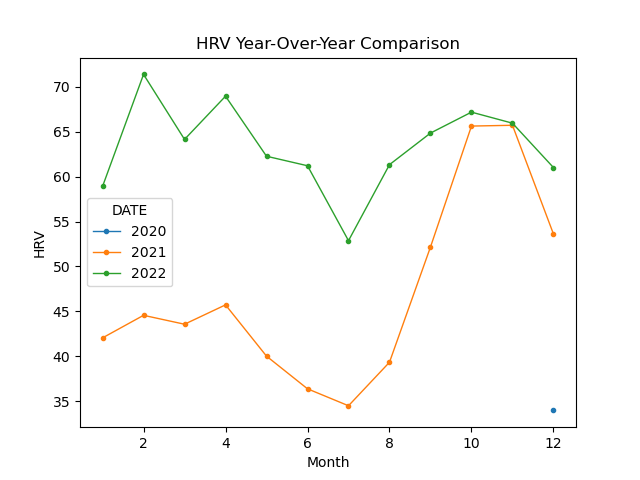
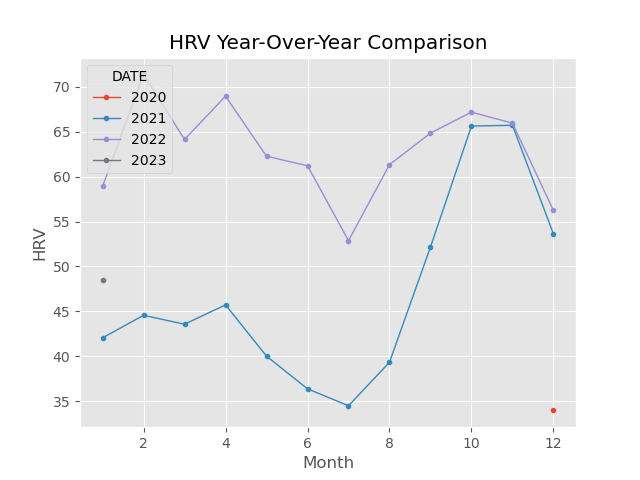
added knn classification

diff --git a/templates/weight.html b/templates/weight.html
@@ -4,7 +4,10 @@
 		<h3> <a href="/"class="button">HOME</a></h3>
 		<div class="parent">
 			<div>
-				<img src={{url_for('static',filename="Weight (pounds) Year-Over-Year Comparison.png")}} />
+				<img src={{url_for('static',filename="Mean Weight (pounds) Year-Over-Year Comparison.png")}} />
+			</div>
+			<div>
+				<img src={{url_for('static',filename="Mean Calories consumed Year-Over-Year Comparison.png")}} />
 			</div>
 		</div>
 		<h3> <a href="/"class="button">HOME</a></h3>

diff --git a/templates/index.html b/templates/index.html
@@ -6,4 +6,5 @@
 		<h3> <a href="/power"class="btn btn-primary btn-lg">Power</a></h3>
 		<h3> <a href="/recovery"class="btn btn-primary btn-lg">Recovery</a></h3>
 		<h3> <a href="/regression"class="btn btn-primary btn-lg">Regression</a></h3>
+		<h3> <a href="/scatter"class="btn btn-primary btn-lg">Scatter</a></h3>
 	{% endblock %}

diff --git a/templates/scatter.html b/templates/scatter.html
@@ -1,0 +1,12 @@
+{% extends 'base.html' %}
+	{% block body %}
+		<h1> Scatter Plot </h1>
+		<h3> <a href="/"class="button">HOME</a></h3>
+		<div class="parent">
+			<div>
+				<img src={{url_for('static',filename="scatter_matrix.png")}} />
+			</div>
+		</div>
+		<h3> <a href="/"class="button">HOME</a></h3>
+	{% endblock %}
+

diff --git a/templates/recovery.html b/templates/recovery.html
@@ -9,6 +9,9 @@
 			<div>
 				<img src={{url_for('static',filename="RHR Year-Over-Year Comparison.png")}} />
 			</div>
+			<div>
+				<img src={{url_for('static',filename="Mean Total Hours of Sleep Year-Over-Year Comparison.png")}} />
+			</div>
 		</div>
 		<h3> <a href="/"class="button">HOME</a></h3>
 	{% endblock %}

diff --git a/knn-classification.py b/knn-classification.py
@@ -1,0 +1,94 @@
+#!/usr/bin/python3
+
+import pandas as pd
+from pandas.plotting._misc import scatter_matrix
+import numpy as np
+import matplotlib.pyplot as plt
+from sklearn.neighbors import KNeighborsClassifier
+from sklearn.model_selection import train_test_split
+import load
+import data_manipulations
+from matplotlib.patches import Patch
+
+
+
+def main():
+	''' main function for testing'''
+	
+	filename = "trainingLog.csv"
+	df = load.to_df(filename)
+
+	variables = ['Run type', 'GARMIN Average HR (bpm)', 'Average Pace (min/mile)', 'Average Cadence (spm)', 'Average Power (W)']
+	
+
+	data = df[variables].dropna()
+	data = data_manipulations.convert_pace(data)
+
+	target_variable = 'Run type'
+	predictor_variables = ['GARMIN Average HR (bpm)', 'Pace (min per mile)', 'Average Cadence (spm)', 'Average Power (W)']
+
+	y = data[target_variable]
+
+	df = data[predictor_variables] 
+	
+	fig = plt.figure()
+	fig.set_figheight(12)
+	fig.set_figwidth(8)
+
+	ax1 = plt.subplot(1, 1, 1) #, frameon=True)
+
+	#fig, ax = plt.subplots()
+	plt.style.use('ggplot')
+
+	colors = {'Recovery':'red', 'Threshold':'orange', 'Medium long':'green', 'Long run':'blue', 'VO2 max':'yellow', 'General aerobic':'black', 'Progression':'cyan', 'Race':'magenta', 'Intervals':'0.8'}
+
+	color_map = data['Run type'].map(colors)
+
+	ax1 = scatter_matrix(df, c=color_map, figsize = [8,8], s=150, marker='D')
+
+	#ax2 = plt.subplot(2, 1, 2)
+
+	red = Patch(facecolor='red', edgecolor='r', label='Recovery')
+	#orange = mpatches.Patch(color='orange', label='Threshold')
+
+	#ax2.legend(handles=[red], loc='center')
+	#_ = ax.add_artist(legend)
+	
+	#plt.tight_layout()
+	plt.show()
+
+	plt.savefig("/home/ocros03/Website/static/scatter_matrix.png")
+	plt.close()
+	
+
+	#print(df)
+	#print(df.shape)
+	#print(df.keys())
+	#print(type(df.HRV))
+	'''
+	X = np.array(data[predictor_variables])
+	#print(predictor)
+	#print(type(predictor)
+
+	
+	y = np.array(data[target_variable])
+
+	X_train, X_test, y_train, y_test = train_test_split(X, y, test_size=0.3, random_state=21, stratify=y)
+	
+	knn = KNeighborsClassifier(n_neighbors=5)
+
+	knn.fit(X_train, y_train)
+
+	y_pred = knn.predict(X_test)
+
+	print("Test set predictions: \n {}".format(y_pred))
+
+	print(X_test)
+
+	print(knn.score(X_test, y_test))
+	'''
+	return
+
+
+if __name__ == '__main__':
+	main()

diff --git a/recovery.py b/recovery.py
@@ -5,6 +5,7 @@ import matplotlib.pyplot as plt
 import load
 import os
 import plot
+import data_manipulations
 
 
 def main():
@@ -14,8 +15,9 @@ def main():
 	
 	df = load.to_df(filename)
 
-	hrv(df)
-	rhr(df)	
+	#hrv(df)
+	#rhr(df)	
+	sleep(df)
 
 	return
 
@@ -25,7 +27,7 @@ def hrv(df):
 
 	metric = "HRV"
 
-	plot.year_over_year(df, metric, 'r')
+	plot.year_over_year(df, metric)
 
 	return
 
@@ -35,7 +37,19 @@ def rhr(df):
 
 	metric = "RHR"
 
-	plot.year_over_year(df, metric, 'g')
+	plot.year_over_year(df, metric)
+
+	return
+
+
+def sleep(df):
+	''' Plot WHOOP total sleep data'''
+
+	metric = "Total Hours of Sleep"
+
+	df = data_manipulations.convert_sleep(df)
+
+	plot.year_over_year(df, metric)
 
 	return
 

diff --git a/plot.py b/plot.py
@@ -18,18 +18,19 @@ def main():
 	return
 
 
-def year_over_year(df, variable, color):
+def year_over_year(df, variable):
 	''' Plot single variable year-over-year data'''
 
 	pv = pd.pivot_table(df, index=df.index.month, columns=df.index.year, values=variable)	
 
+	plt.style.use('ggplot')
 	pv.plot(marker='.', linewidth=1)
-	plt.title(variable + ' Year-Over-Year Comparison')
+	plt.title('Mean ' + variable + ' Year-Over-Year Comparison')
 	plt.xlabel('Month')
 	plt.ylabel(variable)
 
 	os.chdir('./static')
-	plt.savefig(variable + ' Year-Over-Year Comparison.png')
+	plt.savefig('Mean ' + variable + ' Year-Over-Year Comparison.png')
 	plt.close()
 	os.chdir('..')
 

diff --git a/data_manipulations.py b/data_manipulations.py
@@ -43,6 +43,18 @@ def convert_pace(df):
 	return df
 
 
+def convert_sleep(df):
+	''' converts 8:30:00 hours of sleep to 8.5 hours of sleep'''
+
+	df['datetime'] = pd.to_datetime(df['WHOOP Total Hours of Sleep'])
+	df['hours'] = df['datetime'].dt.hour
+	df['minutes'] = (df['datetime'].dt.minute)/60
+	df['seconds'] = (df['datetime'].dt.second)/60/60
+	df['Total Hours of Sleep'] = round(df['hours'] + df['minutes'] + df['seconds'], 2)
+
+	return df
+
+
 def two_variable_correlation(df, variable1, variable2):
 	''' Plots one variable versus another to test correlation'''
 

diff --git a/weight.py b/weight.py
@@ -16,6 +16,7 @@ def main():
 	df = load.to_df(filename)
 	
 	weight(df)
+	calories(df)
 	
 	return
 
@@ -25,7 +26,17 @@ def weight(df):
 
 	variable = 'Weight (pounds)'
 
-	plot.year_over_year(df, variable, 'r')
+	plot.year_over_year(df, variable)
+
+	return
+
+
+def calories(df):
+	''' Plot calorie data year-over-year'''
+
+	variable = 'Calories consumed'
+
+	plot.year_over_year(df, variable)
 
 	return
 

diff --git a/app.py b/app.py
@@ -35,6 +35,10 @@ def recovery():
 def regression():
 	return render_template('regression.html')
 
+@app.route('/scatter')
+def scatter():
+	return render_template('scatter.html')
+
 # No caching at all for API endpoints.
 @app.after_request
 def add_header(response):
